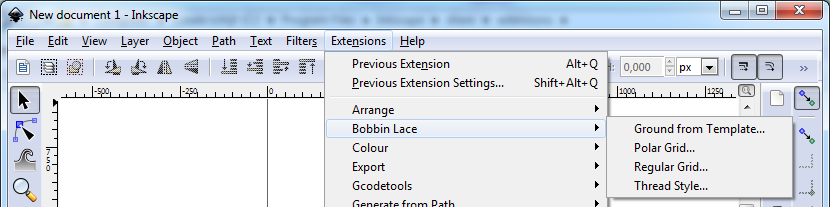
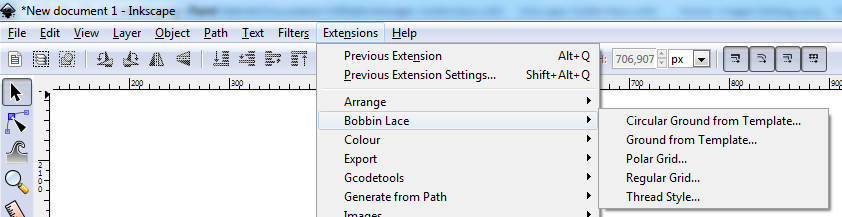
new plugin that wraps grounds from templates around a circle

diff --git a/Ground-from-Template.md b/Ground-from-Template.md
@@ -1,6 +1,45 @@
-_Under Construction_
---------------------
+- [Intro](#intro)
+- [Applying a Template](#applying-a-template)
+- [Standard Deformations Tools](#standard-deformations-tools)
 
-A slide show on [tesselace.com](https://tesselace.com/tools/inkscape-extension/) shows the available patterns. You need the number or name to select a file from the plugin-download and use it in the dialog.
+<sup><i><a href='http://ecotrust-canada.github.io/markdown-toc/'>Table of contents generated with markdown-toc</a></i></sup>
 
-For general purpose SVG editors you can also download the patterns via the GroundForge [gallery](https://d-bl.github.io/GroundForge/gallery.html). A single gallery item may represent different patterns.
+
+Intro
+=====
+
+Two extensions create patterns from templates that came with the [installation] package.
+One generates straight patches from these templates, the other wraps the patterns around a circle.
+
+More patterns, but fixed sized straight patches, are available for download from the GroundForge [gallery].
+Of course you can enlarge these patterns by copy-paste and snap the copies into position.
+A single gallery item may represent different patterns, nudging the pin positions to rectangular grid positions.
+
+[gallery]: https://d-bl.github.io/GroundForge/gallery.html
+[installation]: https://github.com/d-bl/inkscape-bobbinlace/wiki
+
+
+Applying a Template
+===================
+
+Browse with the file explorer/finder of your operating system through the templates.
+ 
+[tesselace]: https://tesselace.com/tools/inkscape-extension/
+
+![https://raw.githubusercontent.com/wiki/d-bl/inkscape-bobbinlace/grouds-images/browse-screenshot.png](https://raw.githubusercontent.com/wiki/d-bl/inkscape-bobbinlace/grouds-images/browse-screenshot.png)
+
+Copy paste the path for a text file in the dialog of the plugin.
+An explanation to design your own templates sits at the bottom of [tesselace].
+
+![https://raw.githubusercontent.com/wiki/d-bl/inkscape-bobbinlace/grouds-images/plugin-screenshot.png](https://raw.githubusercontent.com/wiki/d-bl/inkscape-bobbinlace/grouds-images/plugin-screenshot.png)
+
+
+Standard Deformations Tools
+===========================
+
+After generating a pattern, you can also apply deformations with standard InkScape tools
+such as the extension
+
+    modify path - rubber stretch
+
+![https://raw.githubusercontent.com/wiki/d-bl/inkscape-bobbinlace/grouds-images/rubber-screenshot.png](https://raw.githubusercontent.com/wiki/d-bl/inkscape-bobbinlace/grouds-images/rubber-screenshot.png)

diff --git a/Home.md b/Home.md
@@ -4,14 +4,18 @@ _A collection of InkScape plugins for bobbin lace by various authors._
 
 First download and install [InkScape].
 Then download a [released] (or the most [recent]) version of the bobbin lace extensions and unpack.
-The downloads contains pairs of  `.inx`/`.py` files, one pair for each plug-in.
-Start InkScape and look for the location where to put these files:
 
-    Edit > Preferences > System: User extensions
+The downloads contains
+* A folder with templates for the [Ground from Template](Ground-from-Template) plugins. Put this folder somewhere you can easily find.
+* Pairs of  `.inx`/`.py` files, one pair for each plug-in.
 
-Once the files are in place and InkScape is restarted, the new extensions are available via the menu shown in the screenshot below. Follow the same procedure to upgrade or downgrade an extension.
+  Start InkScape and look for the location where to put these files:
 
-![](https://raw.githubusercontent.com/wiki/d-bl/inkscape-bobbinlace/home-images/menu.png)
+      Edit > Preferences > System: User extensions
+
+  Once the files are in place and InkScape is restarted, the new extensions are available via the menu shown in the screenshot below. Follow the same procedure to upgrade or downgrade an extension.
+
+  ![](https://raw.githubusercontent.com/wiki/d-bl/inkscape-bobbinlace/home-images/menu.png)
 
 ## Usage
 
